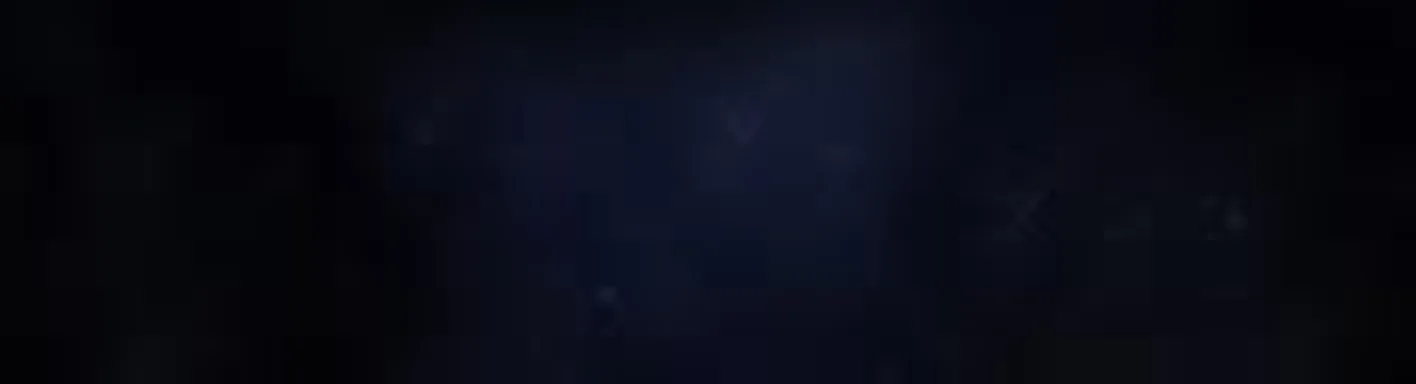
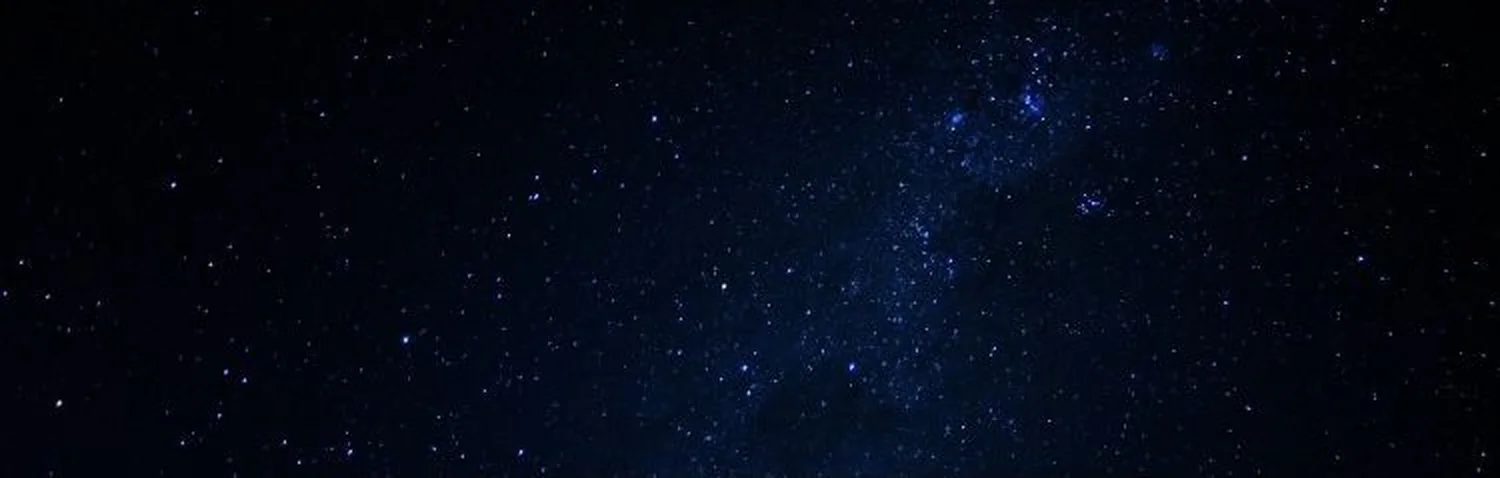
Same top bar on all pages, new starry header

diff --git a/app/css/app.css b/app/css/app.css
@@ -349,3 +349,34 @@ footer.credits { margin-top: 32px; padding-top: 16px; border-top: 1px solid var(
 .sidebar { transition: top .35s cubic-bezier(.2,.8,.2,1); }
 .sidebar.bar-hidden { top: -110px; }
 @media (prefers-reduced-motion: reduce) { .sidebar { transition: none; } }
+
+/* ================================================================ top bar styled like the home page, on its own image (both themes) */
+.sidebar, [data-theme="dark"] .sidebar, [data-theme="light"] .sidebar {
+  background: linear-gradient(rgba(4,7,14,.2), rgba(4,7,14,.4)), url(../assets/header-pages.webp?v=8) center / cover no-repeat;
+  border-bottom: 1px solid rgba(255,255,255,.08); color-scheme: dark; }
+.sidebar .seg { background: rgba(255,255,255,.06); border: 1px solid rgba(255,255,255,.12); }
+.sidebar .seg button { color: #C4CAD6; }
+.sidebar .seg button:hover { color: #fff; }
+.sidebar .seg button.on { background: rgba(255,255,255,.14); color: #fff; box-shadow: none; }
+.sidebar .themebtn { background: rgba(255,255,255,.06); border-color: rgba(255,255,255,.15); color: #E8ECF2; }
+.sidebar .themebtn:hover { border-color: rgba(255,255,255,.35); }
+.sidebar .emblem { box-shadow: 0 0 0 1px rgba(255,255,255,.18); }
+
+@media (min-width: 861px) {
+  .sidebar { height: 70px; padding: 0 max(28px, calc((100vw - 1380px) / 2 + 28px)); }
+  .sidebar .brand { margin-left: clamp(0px, 5vw, 110px); }
+  .sidebar .emblem { width: 58px; height: 58px; }
+  .main { min-height: calc(100vh - 70px); }
+  .nav { gap: 44px; }
+  .nav-ink, .nav-line { display: none; }
+  .nav a { padding: 10px 2px; border-radius: 0; color: #C4CAD6; font: 600 16px Inter, system-ui, sans-serif; letter-spacing: .14em; text-transform: uppercase; }
+  .nav { gap: 46px; }
+  .nav a:hover, .nav a.hot { color: #fff; }
+  .nav a.on { color: #fff; font-weight: 600; }
+  .nav a::after { content: ""; position: absolute; left: 0; right: 0; bottom: 0; height: 2px; border-radius: 2px;
+    background: linear-gradient(90deg, var(--sun-fill), var(--earth-fill)); transform: scaleX(0); transition: transform .35s cubic-bezier(.3,1.2,.4,1); }
+  .nav a:hover::after, .nav a:focus-visible::after, .nav a.on::after { transform: scaleX(1); }
+}
+@media (max-width: 860px) {
+  .sidebar { background-position: center; }
+}

diff --git a/app/explore.html b/app/explore.html
@@ -9,8 +9,8 @@
 <meta name="description" content="Compare lunar south pole landing sites by sunlight and Earth visibility, computed from NASA LOLA terrain and JPL ephemerides.">
 <link rel="icon" href="assets/favicon.png">
 <link rel="preconnect" href="https://fonts.googleapis.com"><link rel="preconnect" href="https://fonts.gstatic.com" crossorigin>
-<link href="https://fonts.googleapis.com/css2?family=Archivo:wdth,wght@62..125,400..700&display=swap" rel="stylesheet">
-<link rel="stylesheet" href="css/app.css?v=7">
+<link href="https://fonts.googleapis.com/css2?family=Archivo:wdth,wght@62..125,400..700&family=Inter:wght@500;600&display=swap" rel="stylesheet">
+<link rel="stylesheet" href="css/app.css?v=8">
 </head>
 <body>
 <aside class="sidebar" id="sidebar"></aside>
@@ -68,6 +68,6 @@
     <footer class="credits" id="credits"></footer>
   </div>
 </main>
-<script type="module" src="js/explore.js?v=7"></script>
+<script type="module" src="js/explore.js?v=8"></script>
 </body>
 </html>

diff --git a/app/index.html b/app/index.html
@@ -8,8 +8,8 @@
 <link rel="icon" href="assets/favicon.png">
 <link rel="preconnect" href="https://fonts.googleapis.com"><link rel="preconnect" href="https://fonts.gstatic.com" crossorigin>
 <link href="https://fonts.googleapis.com/css2?family=Source+Serif+4:opsz,wght@8..60,500;8..60,600;8..60,700&family=Inter:wght@400;500;600;700&family=IBM+Plex+Mono:wght@400;500&display=swap" rel="stylesheet">
-<link rel="stylesheet" href="css/landing-base.css?v=7">
-<link rel="stylesheet" href="css/landing.css?v=7">
+<link rel="stylesheet" href="css/landing-base.css?v=8">
+<link rel="stylesheet" href="css/landing.css?v=8">
 </head>
 <body class="landing">
 <header class="lnav">
@@ -103,6 +103,6 @@
   <b class="serif">LUMINALUNA</b>
   <span>Data: NASA LRO LOLA · JPL DE421 · validated against JPL Horizons · NASA Space Apps Challenge 2026</span>
 </footer>
-<script type="module" src="js/landing.js?v=7"></script>
+<script type="module" src="js/landing.js?v=8"></script>
 </body>
 </html>

diff --git a/app/compare.html b/app/compare.html
@@ -8,8 +8,8 @@
 <title>Compare · LUMINALUNA</title>
 <link rel="icon" href="assets/favicon.png">
 <link rel="preconnect" href="https://fonts.googleapis.com"><link rel="preconnect" href="https://fonts.gstatic.com" crossorigin>
-<link href="https://fonts.googleapis.com/css2?family=Archivo:wdth,wght@62..125,400..700&display=swap" rel="stylesheet">
-<link rel="stylesheet" href="css/app.css?v=7">
+<link href="https://fonts.googleapis.com/css2?family=Archivo:wdth,wght@62..125,400..700&family=Inter:wght@500;600&display=swap" rel="stylesheet">
+<link rel="stylesheet" href="css/app.css?v=8">
 </head>
 <body>
 <aside class="sidebar" id="sidebar"></aside>
@@ -47,6 +47,6 @@
     <footer class="credits" id="credits"></footer>
   </div>
 </main>
-<script type="module" src="js/compare.js?v=7"></script>
+<script type="module" src="js/compare.js?v=8"></script>
 </body>
 </html>

diff --git a/app/site.html b/app/site.html
@@ -8,8 +8,8 @@
 <title>Site detail · LUMINALUNA</title>
 <link rel="icon" href="assets/favicon.png">
 <link rel="preconnect" href="https://fonts.googleapis.com"><link rel="preconnect" href="https://fonts.gstatic.com" crossorigin>
-<link href="https://fonts.googleapis.com/css2?family=Archivo:wdth,wght@62..125,400..700&display=swap" rel="stylesheet">
-<link rel="stylesheet" href="css/app.css?v=7">
+<link href="https://fonts.googleapis.com/css2?family=Archivo:wdth,wght@62..125,400..700&family=Inter:wght@500;600&display=swap" rel="stylesheet">
+<link rel="stylesheet" href="css/app.css?v=8">
 </head>
 <body>
 <aside class="sidebar" id="sidebar"></aside>
@@ -79,6 +79,6 @@
     <footer class="credits" id="credits"></footer>
   </div>
 </main>
-<script type="module" src="js/site.js?v=7"></script>
+<script type="module" src="js/site.js?v=8"></script>
 </body>
 </html>

diff --git a/app/learn.html b/app/learn.html
@@ -8,8 +8,8 @@
 <title>Learn · LUMINALUNA</title>
 <link rel="icon" href="assets/favicon.png">
 <link rel="preconnect" href="https://fonts.googleapis.com"><link rel="preconnect" href="https://fonts.gstatic.com" crossorigin>
-<link href="https://fonts.googleapis.com/css2?family=Archivo:wdth,wght@62..125,400..700&display=swap" rel="stylesheet">
-<link rel="stylesheet" href="css/app.css?v=7">
+<link href="https://fonts.googleapis.com/css2?family=Archivo:wdth,wght@62..125,400..700&family=Inter:wght@500;600&display=swap" rel="stylesheet">
+<link rel="stylesheet" href="css/app.css?v=8">
 </head>
 <body>
 <aside class="sidebar" id="sidebar"></aside>
@@ -70,6 +70,6 @@
     <footer class="credits" id="credits"></footer>
   </div>
 </main>
-<script type="module" src="js/learn.js?v=7"></script>
+<script type="module" src="js/learn.js?v=8"></script>
 </body>
 </html>
